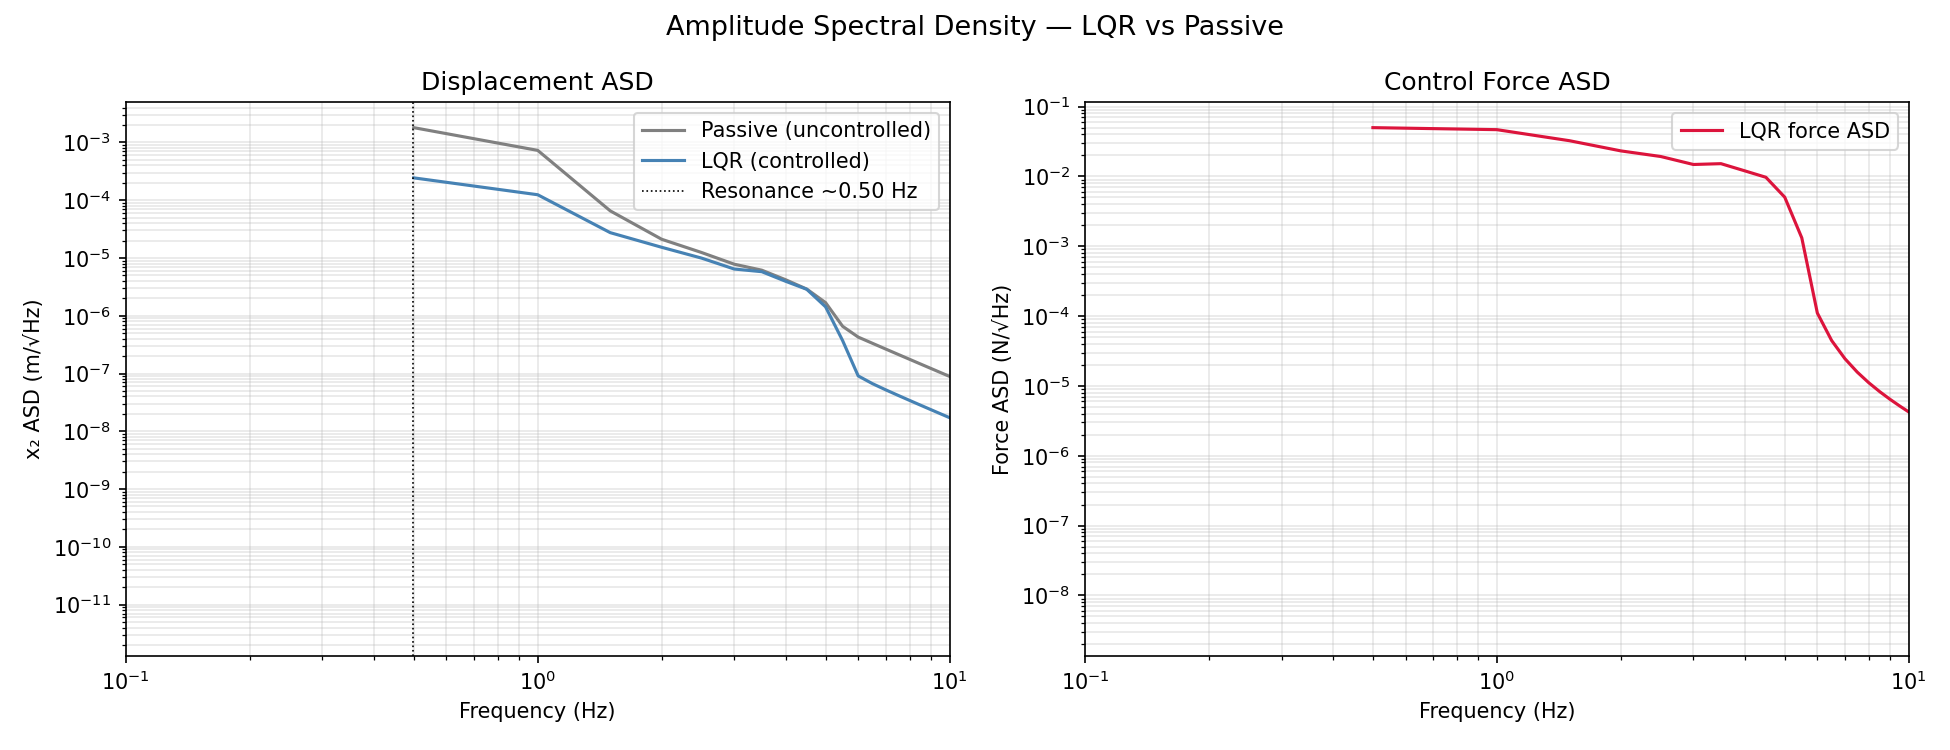
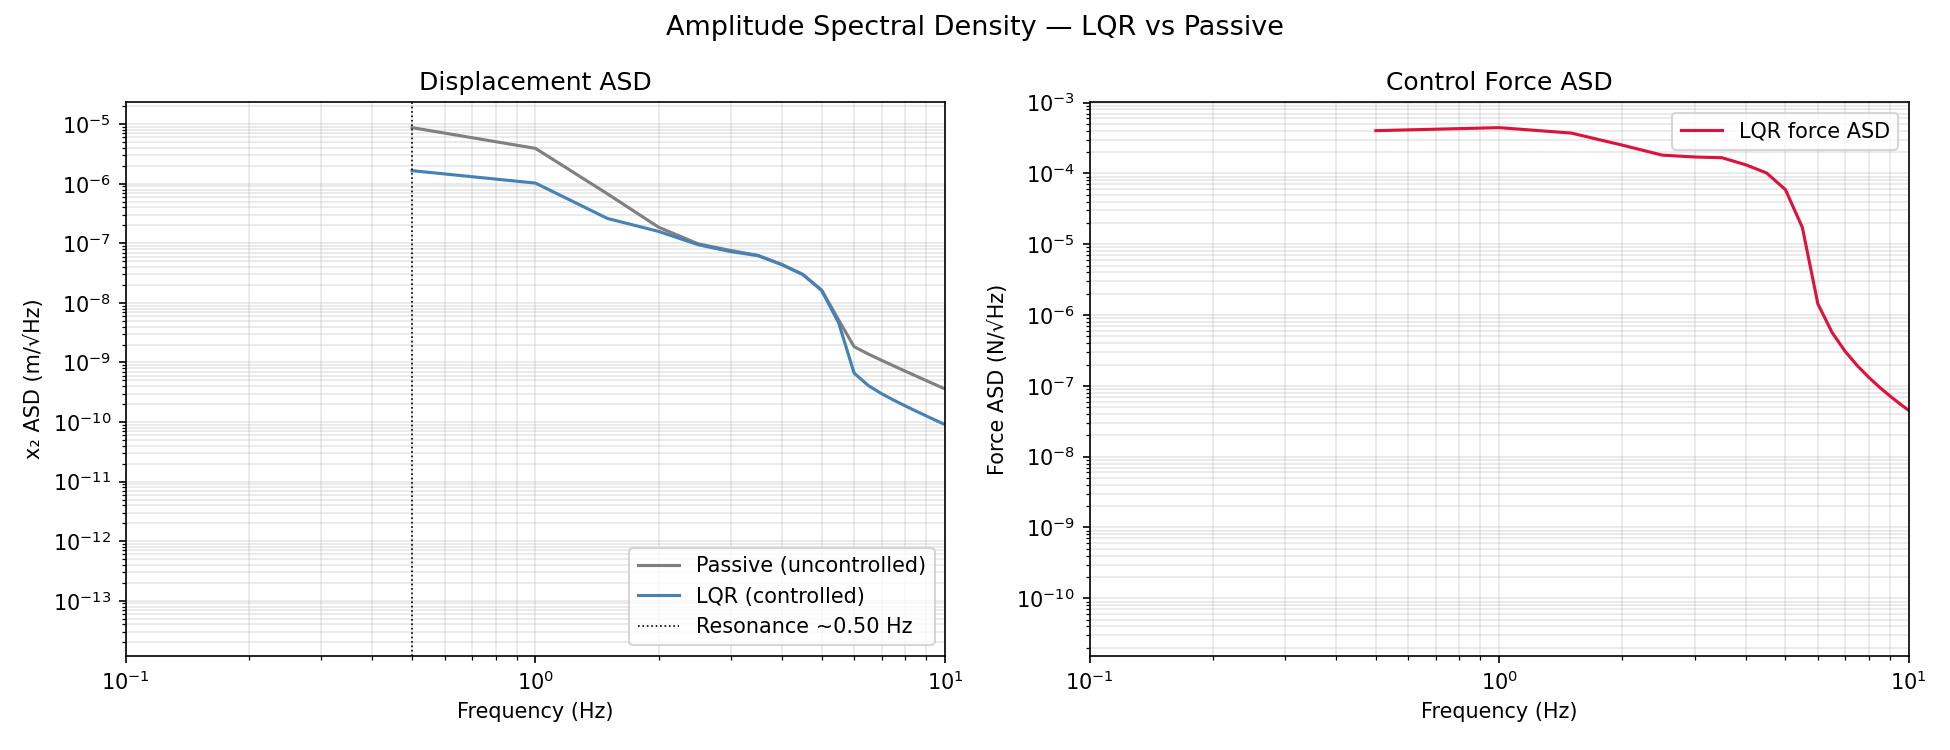
Debug LQR

diff --git a/pend_controls.py b/pend_controls.py
@@ -38,7 +38,7 @@ T_SIM      = float(os.getenv("T_SIM", "20.0"))
 DT         = 0.01
 F_MAX      = 5.0
 N_STEPS    = int(T_SIM / DT)
-NOISE_STD  = 0.002   # m/s^2 — pivot acceleration std (controls noise amplitude)
+NOISE_STD  = 2e-5   # m/s^2 — pivot acceleration std (controls noise amplitude)
 NOISE_FMIN = 0.1     # Hz
 NOISE_FMAX = 5.0     # Hz
 

diff --git a/README.md b/README.md
@@ -175,9 +175,9 @@ Compare runs in W&B by metrics such as `rms_rl_mm`, `rms_lqr_mm`, `rms_cascade_m
 
 ### Simple controls / LQR (latest run)
 - Seed: `None`
-- Passive RMS x2: `1.911 mm`
+- Passive RMS x2: `0.009 mm`
 - LQR RMS x2: `0.000 mm`
-- Improvement factor (passive/LQR): `6.26x`
+- Improvement factor (passive/LQR): `5.34x`
 - Interpretation: This is your near-equilibrium model-based baseline; RL should eventually match or exceed this over repeated seeds.
 
 ### Unified evaluation modes (same seed)
